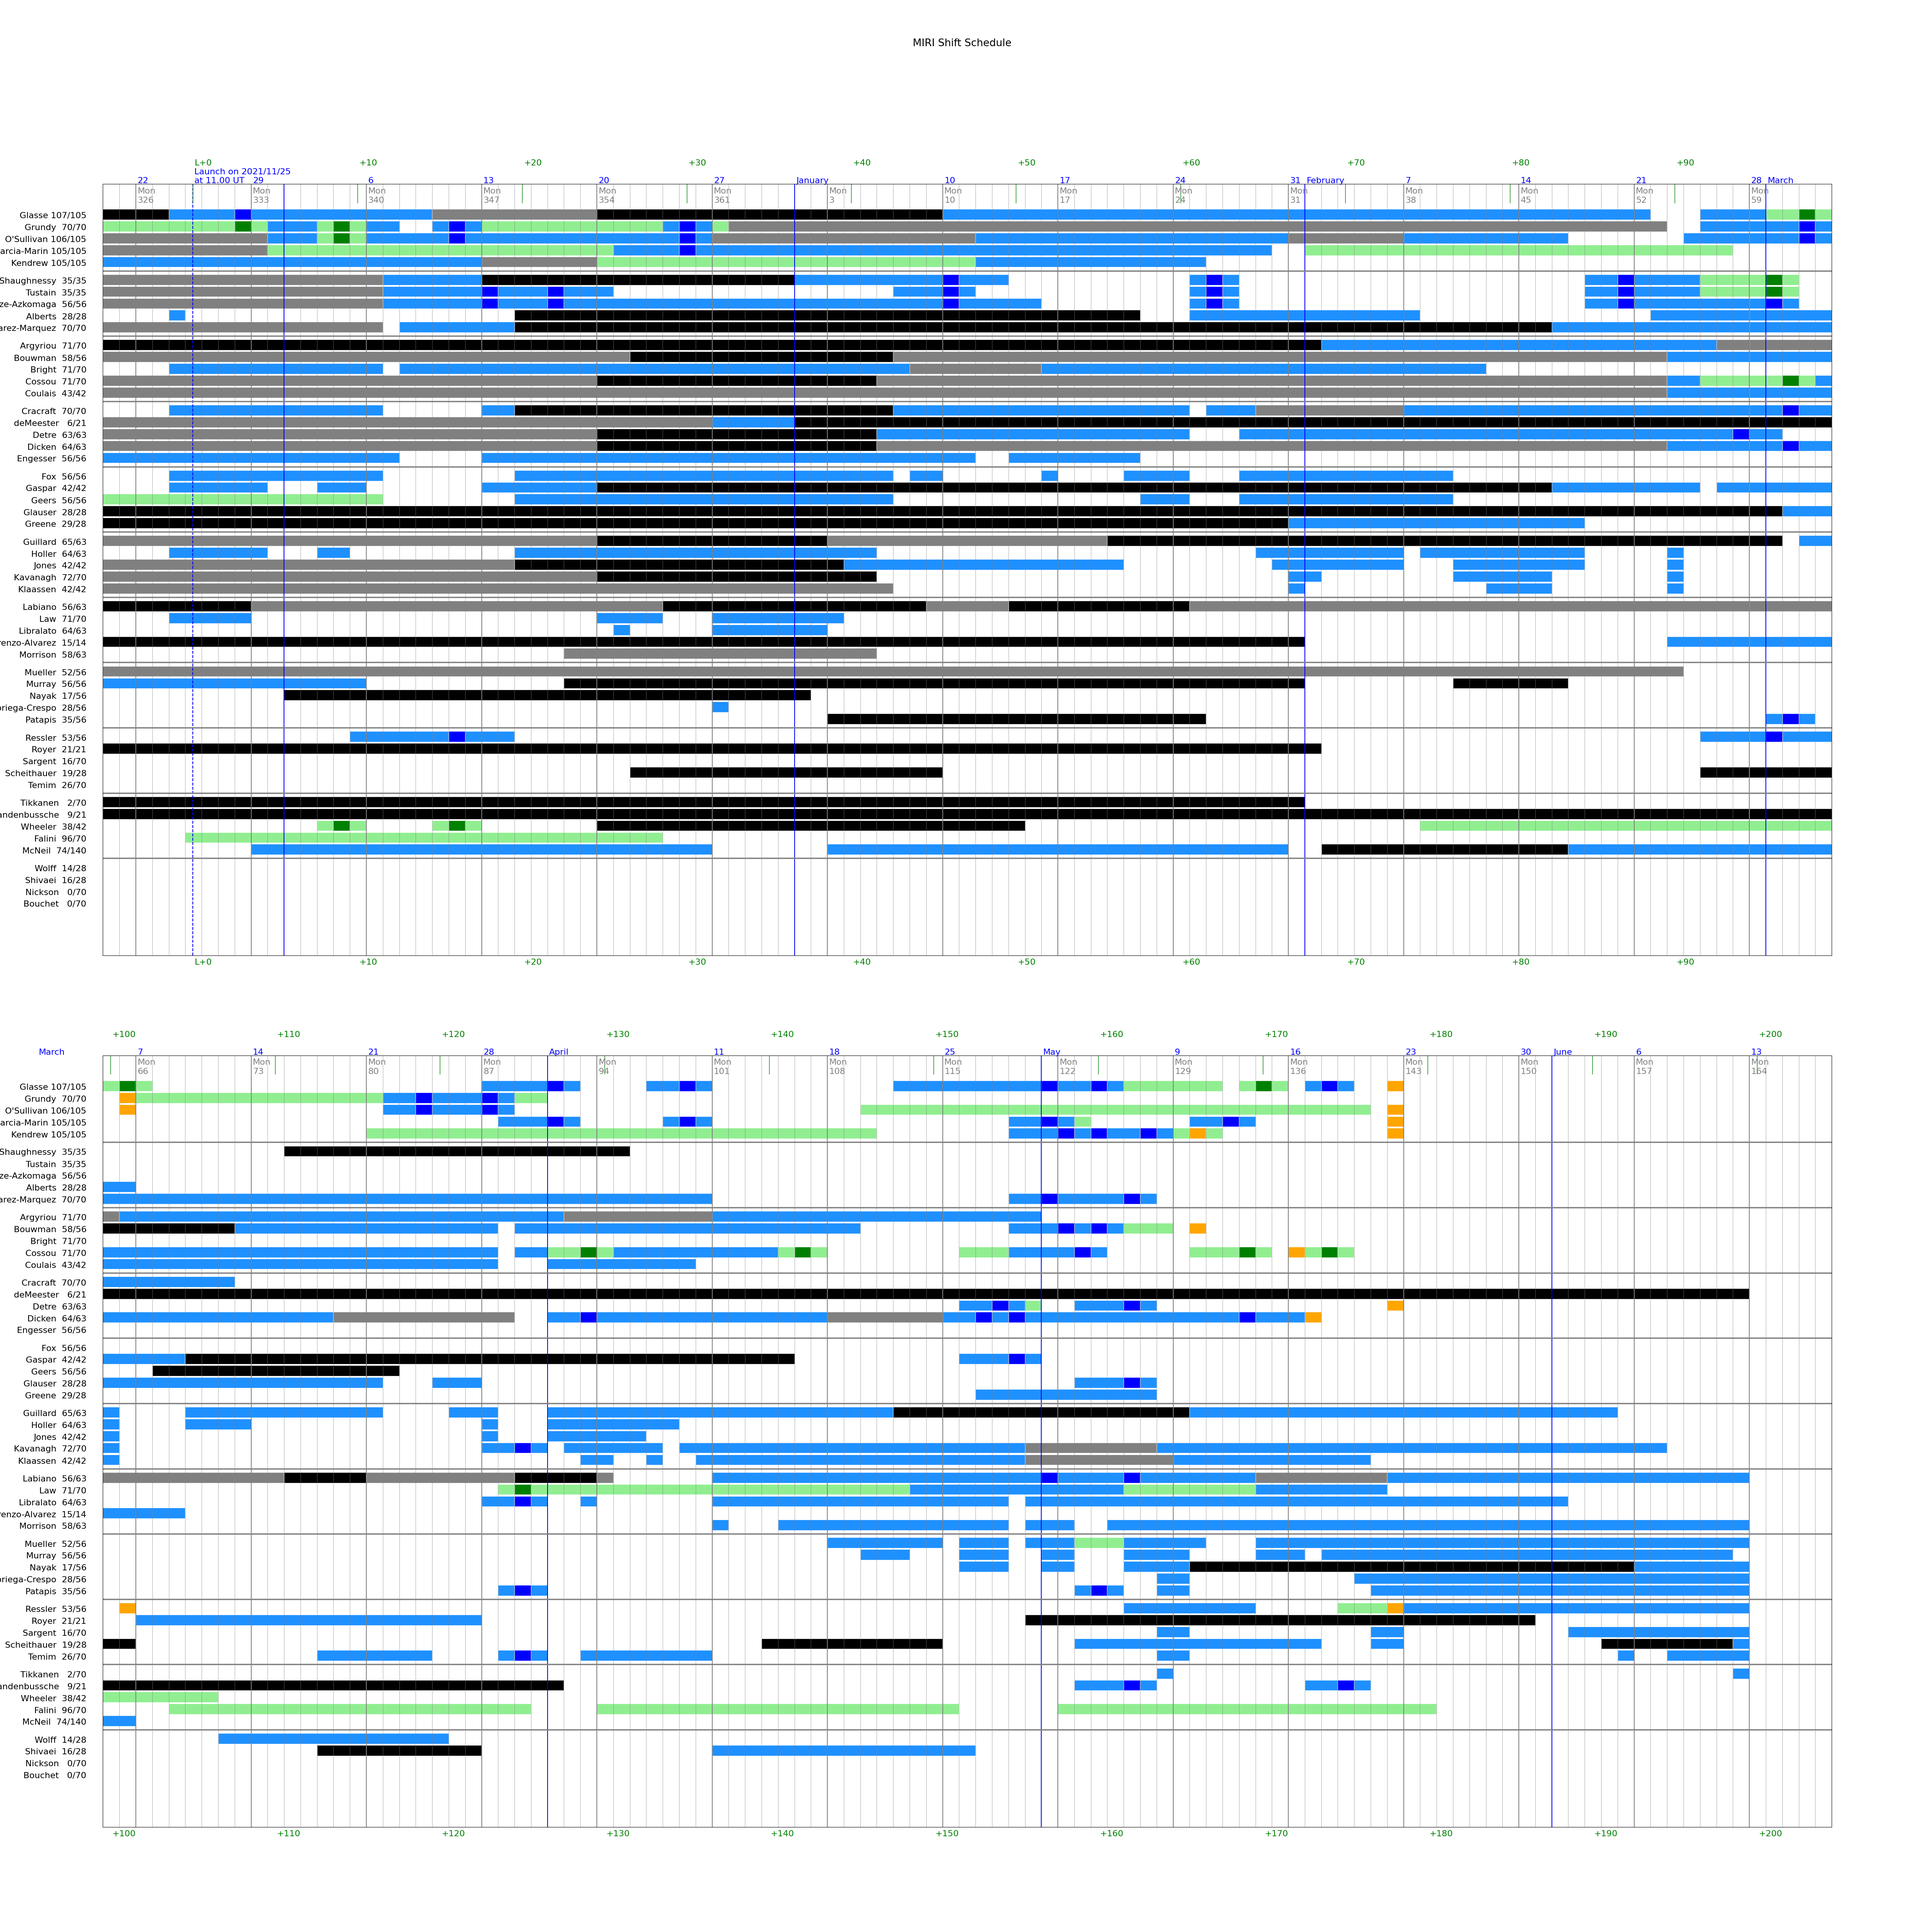
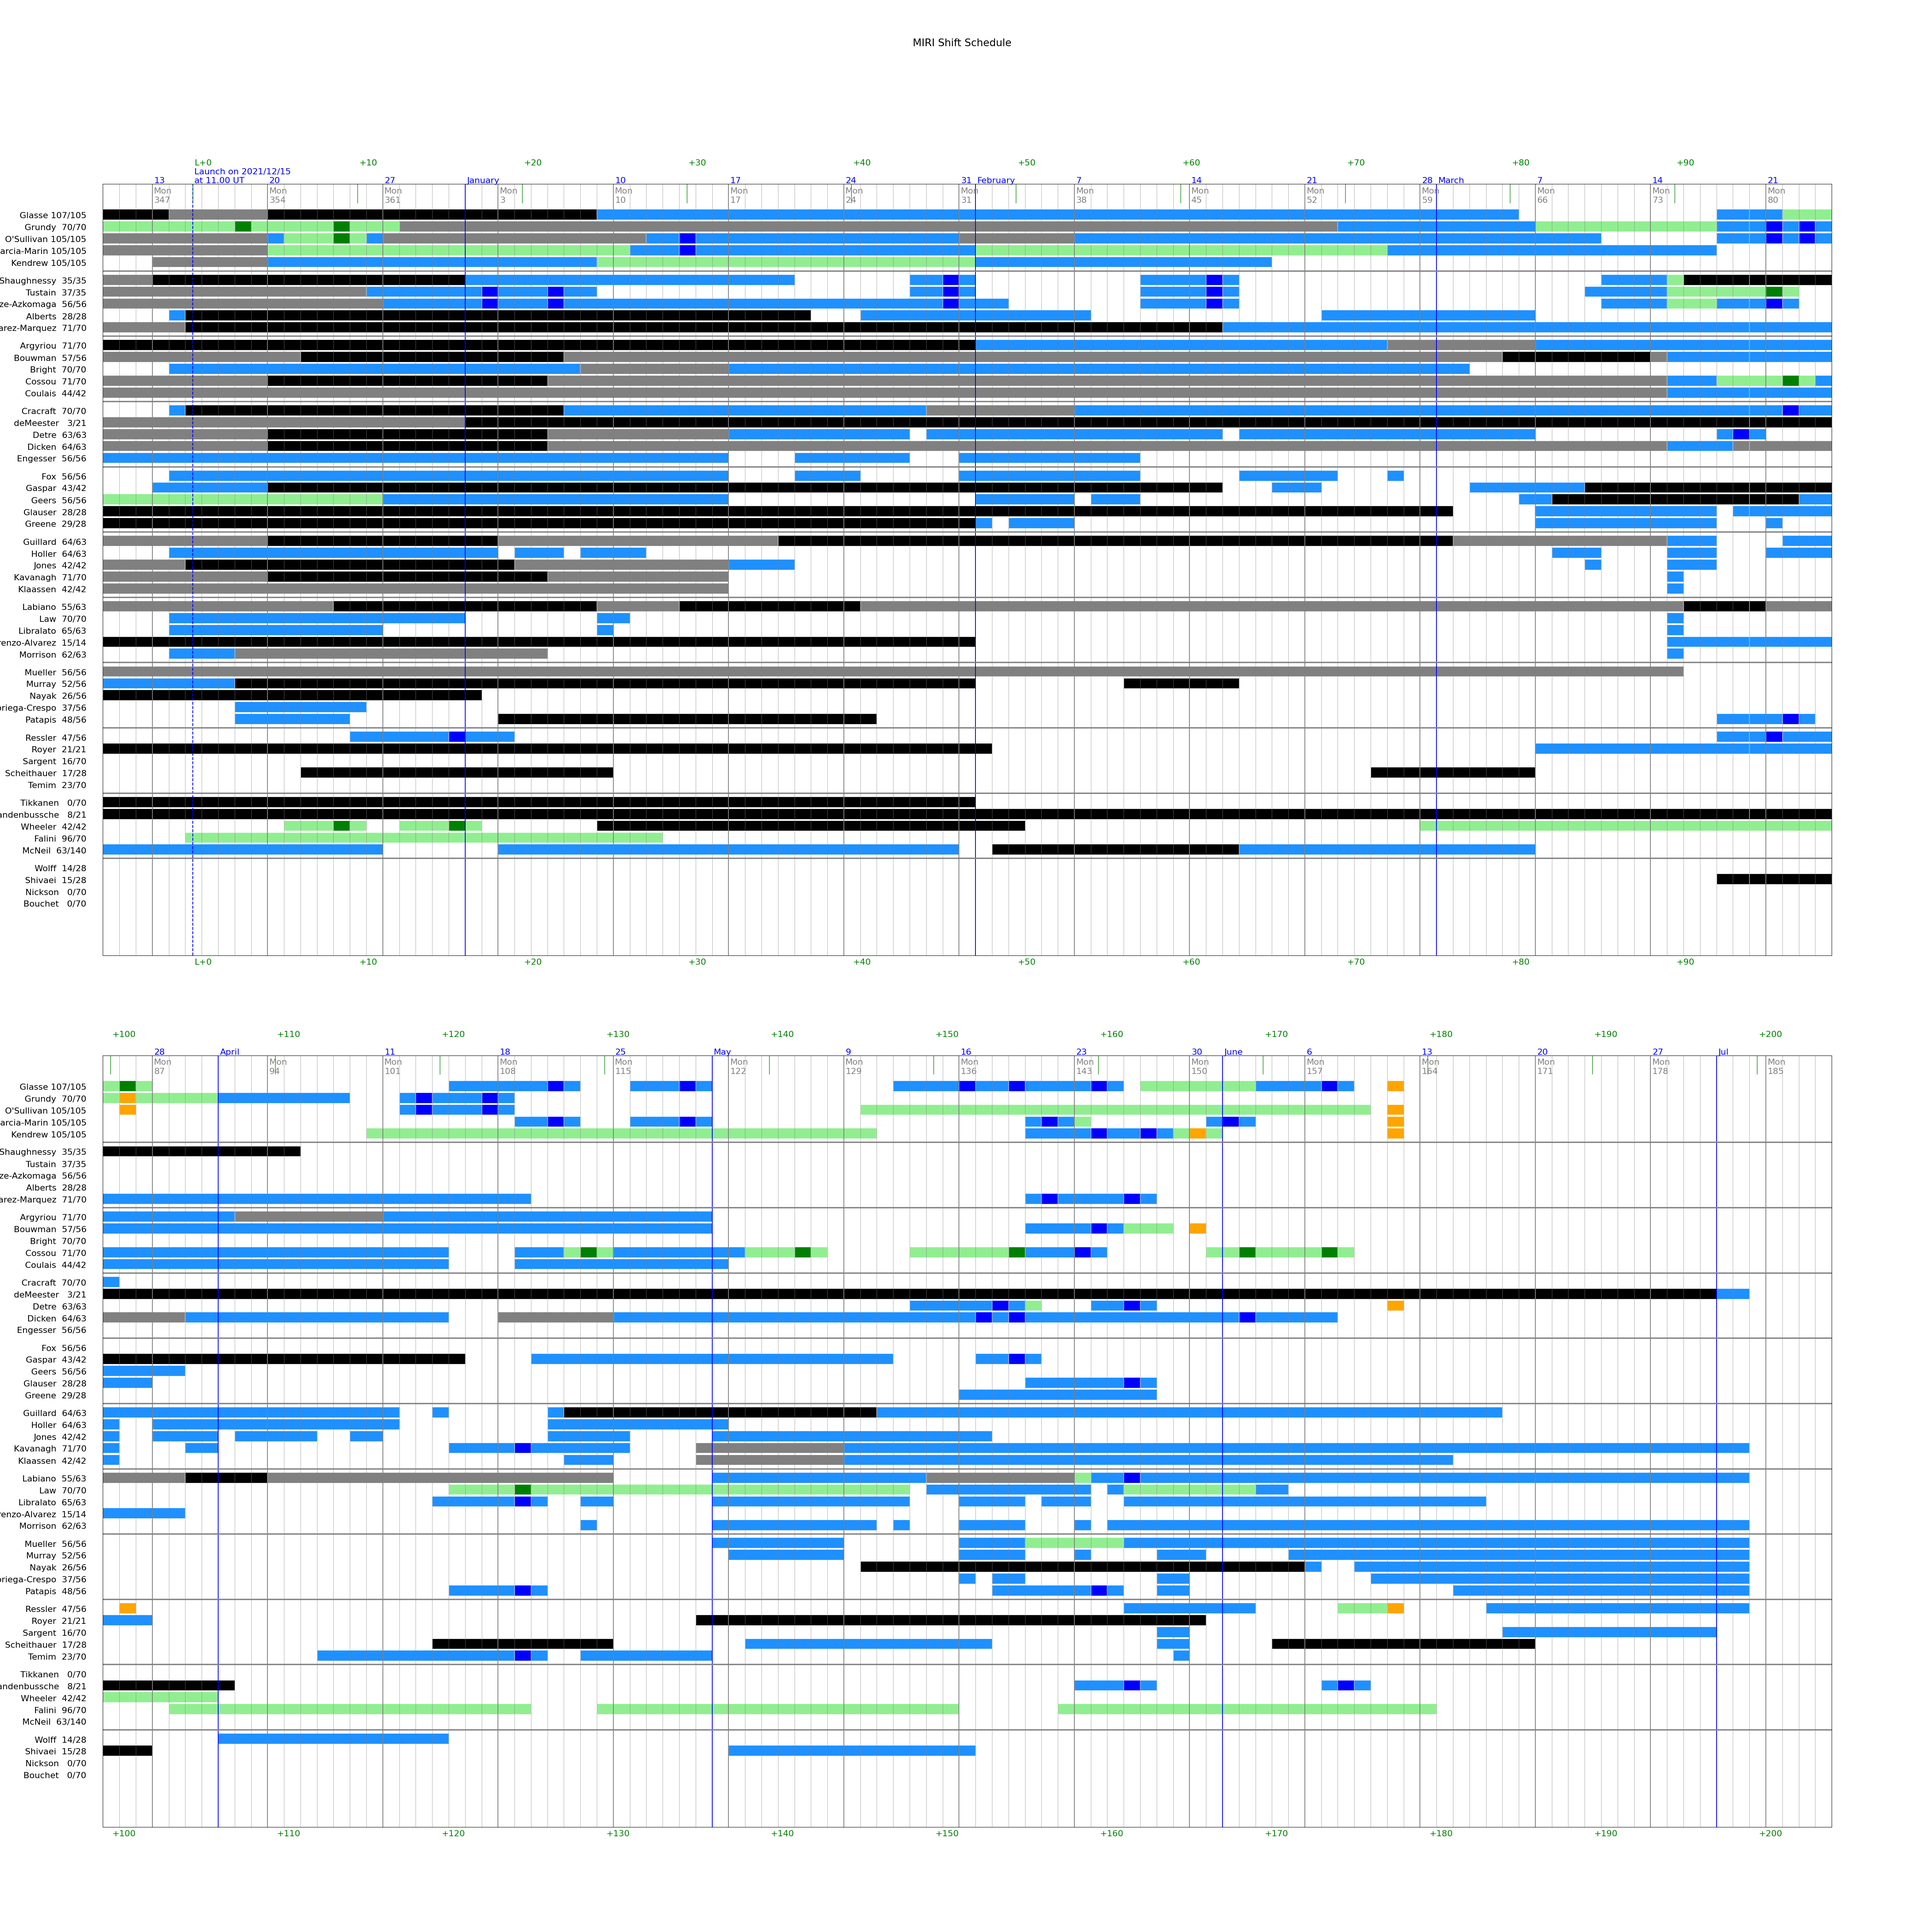
Updated for 15th December 2021 launch date (at 11.00 UT)

diff --git a/source/shift_plan.py b/source/shift_plan.py
@@ -17,8 +17,8 @@ class ShiftPlan:
     """
     month_names = ['January', 'February', 'March', 'April', 'May', 'June',
                    'Jul', 'Aug', 'Sep', 'Oct', 'November', 'December']
-    launchyear, launchmonth, launchdate, launchhour = 2021, 11, 25, 11.00
-    launchdate_last_monday = 22
+    launchyear, launchmonth, launchdate, launchhour = 2021, 12, 15, 11.00
+    launchdate_last_monday = 13             # Date of month of the last Monday before launch
     start_day, end_day = -5, 200
     n_days = end_day - start_day + 1
     console_rota = []
@@ -32,7 +32,7 @@ class ShiftPlan:
         n_days = comm_end_day - comm_start_day + 1
         ShiftPlan.start_day, ShiftPlan.end_day, ShiftPlan.n_days = comm_start_day, comm_end_day, n_days
         ld_lm = ShiftPlan.launchdate_last_monday
-        ShiftPlan.launchdoy_last_monday = ShiftPlan._ymd_to_doy(2021, 11, ld_lm)
+        ShiftPlan.launchdoy_last_monday = ShiftPlan._ymd_to_doy(ShiftPlan.launchyear, ShiftPlan.launchmonth, ld_lm)
         ly, lm, ld = ShiftPlan.launchyear, ShiftPlan.launchmonth, ShiftPlan.launchdate
         ShiftPlan.launchdoy = ShiftPlan._ymd_to_doy(ly, lm, ld)
         ShiftPlan.staff = self.read_staff()
@@ -338,6 +338,9 @@ class ShiftPlan:
             ax.text(xl+0.001*xrange, yrange + 0.1*y_pitch, launch_text, color='blue')
             year = ShiftPlan.launchyear
             month = ShiftPlan.launchmonth + 1
+            if month > 12:      # Catch December launch
+                year += 1
+                month -= 12
             is_more = True
             while is_more:
                 xdom = ShiftPlan._ymd_to_md(year, month, 1)

diff --git a/source/timeliner.py b/source/timeliner.py
@@ -12,7 +12,7 @@ from dataflow import DataFlow
 from tools import Tools
 
 cawg_path = "./inputs/"
-cawg_date = "2021_03"
+cawg_date = "2021_07"
 #timeline_file = "2021June_Working_Commissioning_Timeline.csv"
 timeline_file = "2021July_MIR005_3_update.csv"
 staff_file = "staff.csv"
@@ -59,14 +59,14 @@ rota = ShiftPlan.allocate_prescheduled(rota)
 rota = ShiftPlan.allocate_tasks(rota, 'CAP')
 rota = ShiftPlan.allocate_tasks(rota, 'KDP')
 rota = ShiftPlan.allocate_tasks(rota, 'CAR')
-ShiftPlan.plot_staff_schedules(name='s3.png')
-ShiftPlan.plot_rota(rota, 'r3')
+#ShiftPlan.plot_staff_schedules(name='s3.png')
+#ShiftPlan.plot_rota(rota, 'r3')
 rota = ShiftPlan.allocate_remaining(rota)
-ShiftPlan.plot_staff_schedules(name='s4.png')
-ShiftPlan.plot_rota(rota, 'r4')
+#ShiftPlan.plot_staff_schedules(name='s4.png')
+#ShiftPlan.plot_rota(rota, 'r4')
 rota = ShiftPlan.tidy_rota(rota)
-ShiftPlan.plot_staff_schedules(name='s5.png')
-ShiftPlan.plot_rota(rota, 'r5')
+#ShiftPlan.plot_staff_schedules(name='s5.png')
+#ShiftPlan.plot_rota(rota, 'r5')
 rota = ShiftPlan.remove_singles(rota)
 ShiftPlan.test_rota(rota)
 ShiftPlan.plot_staff_schedules(name='staff_schedule.png')
